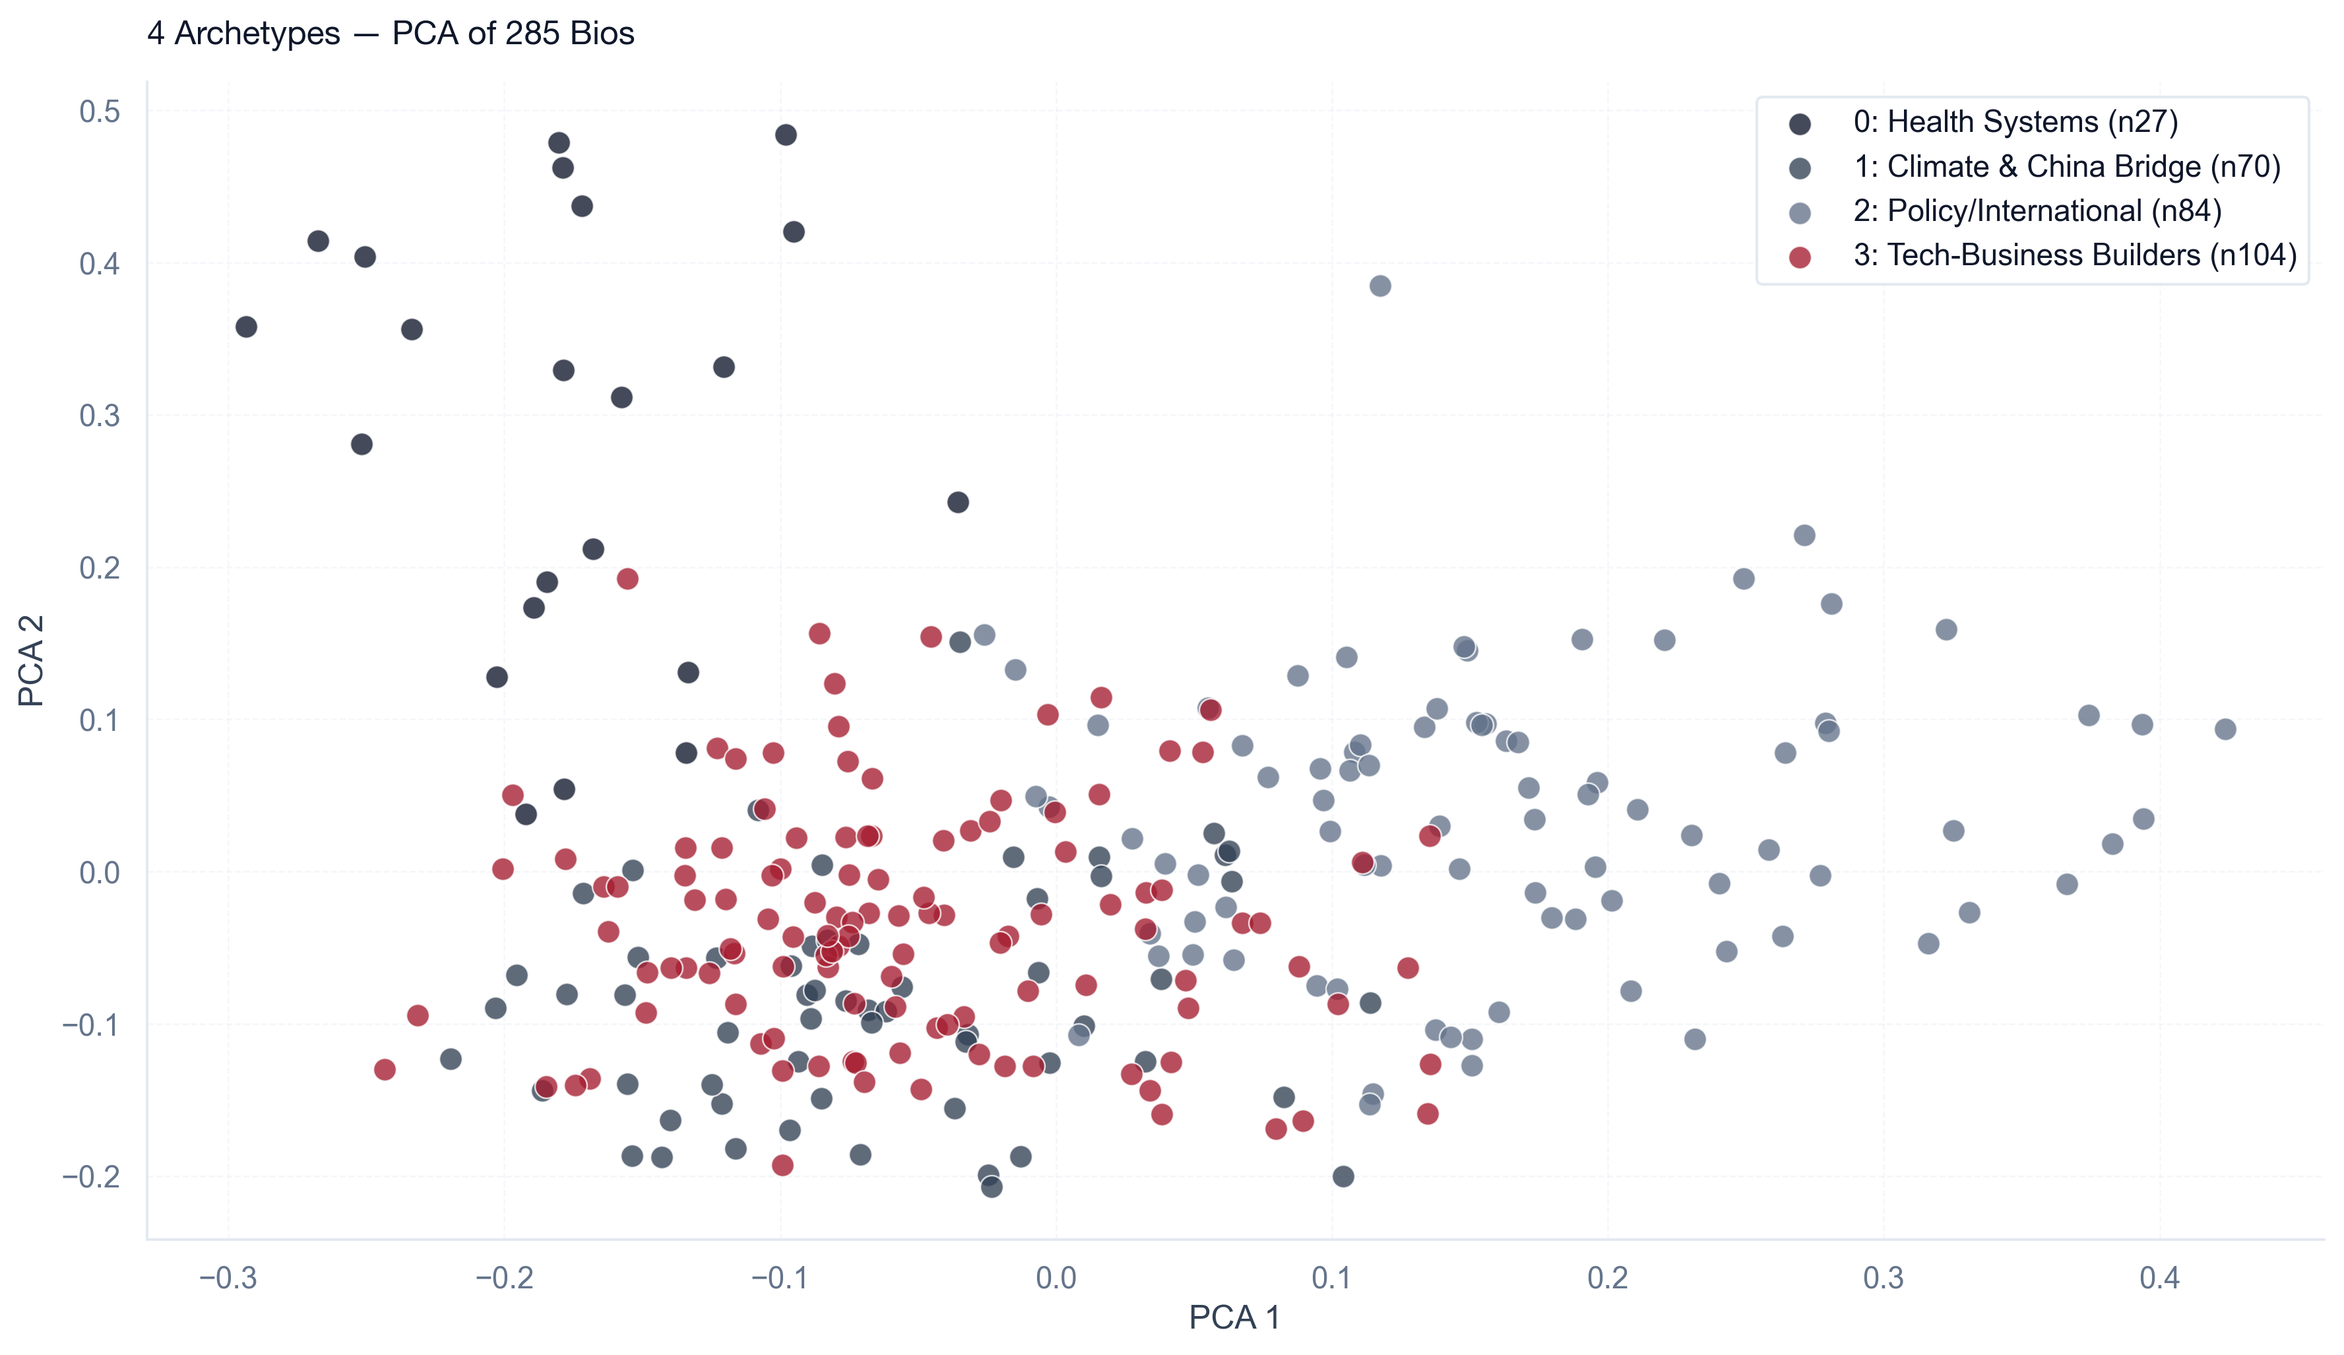
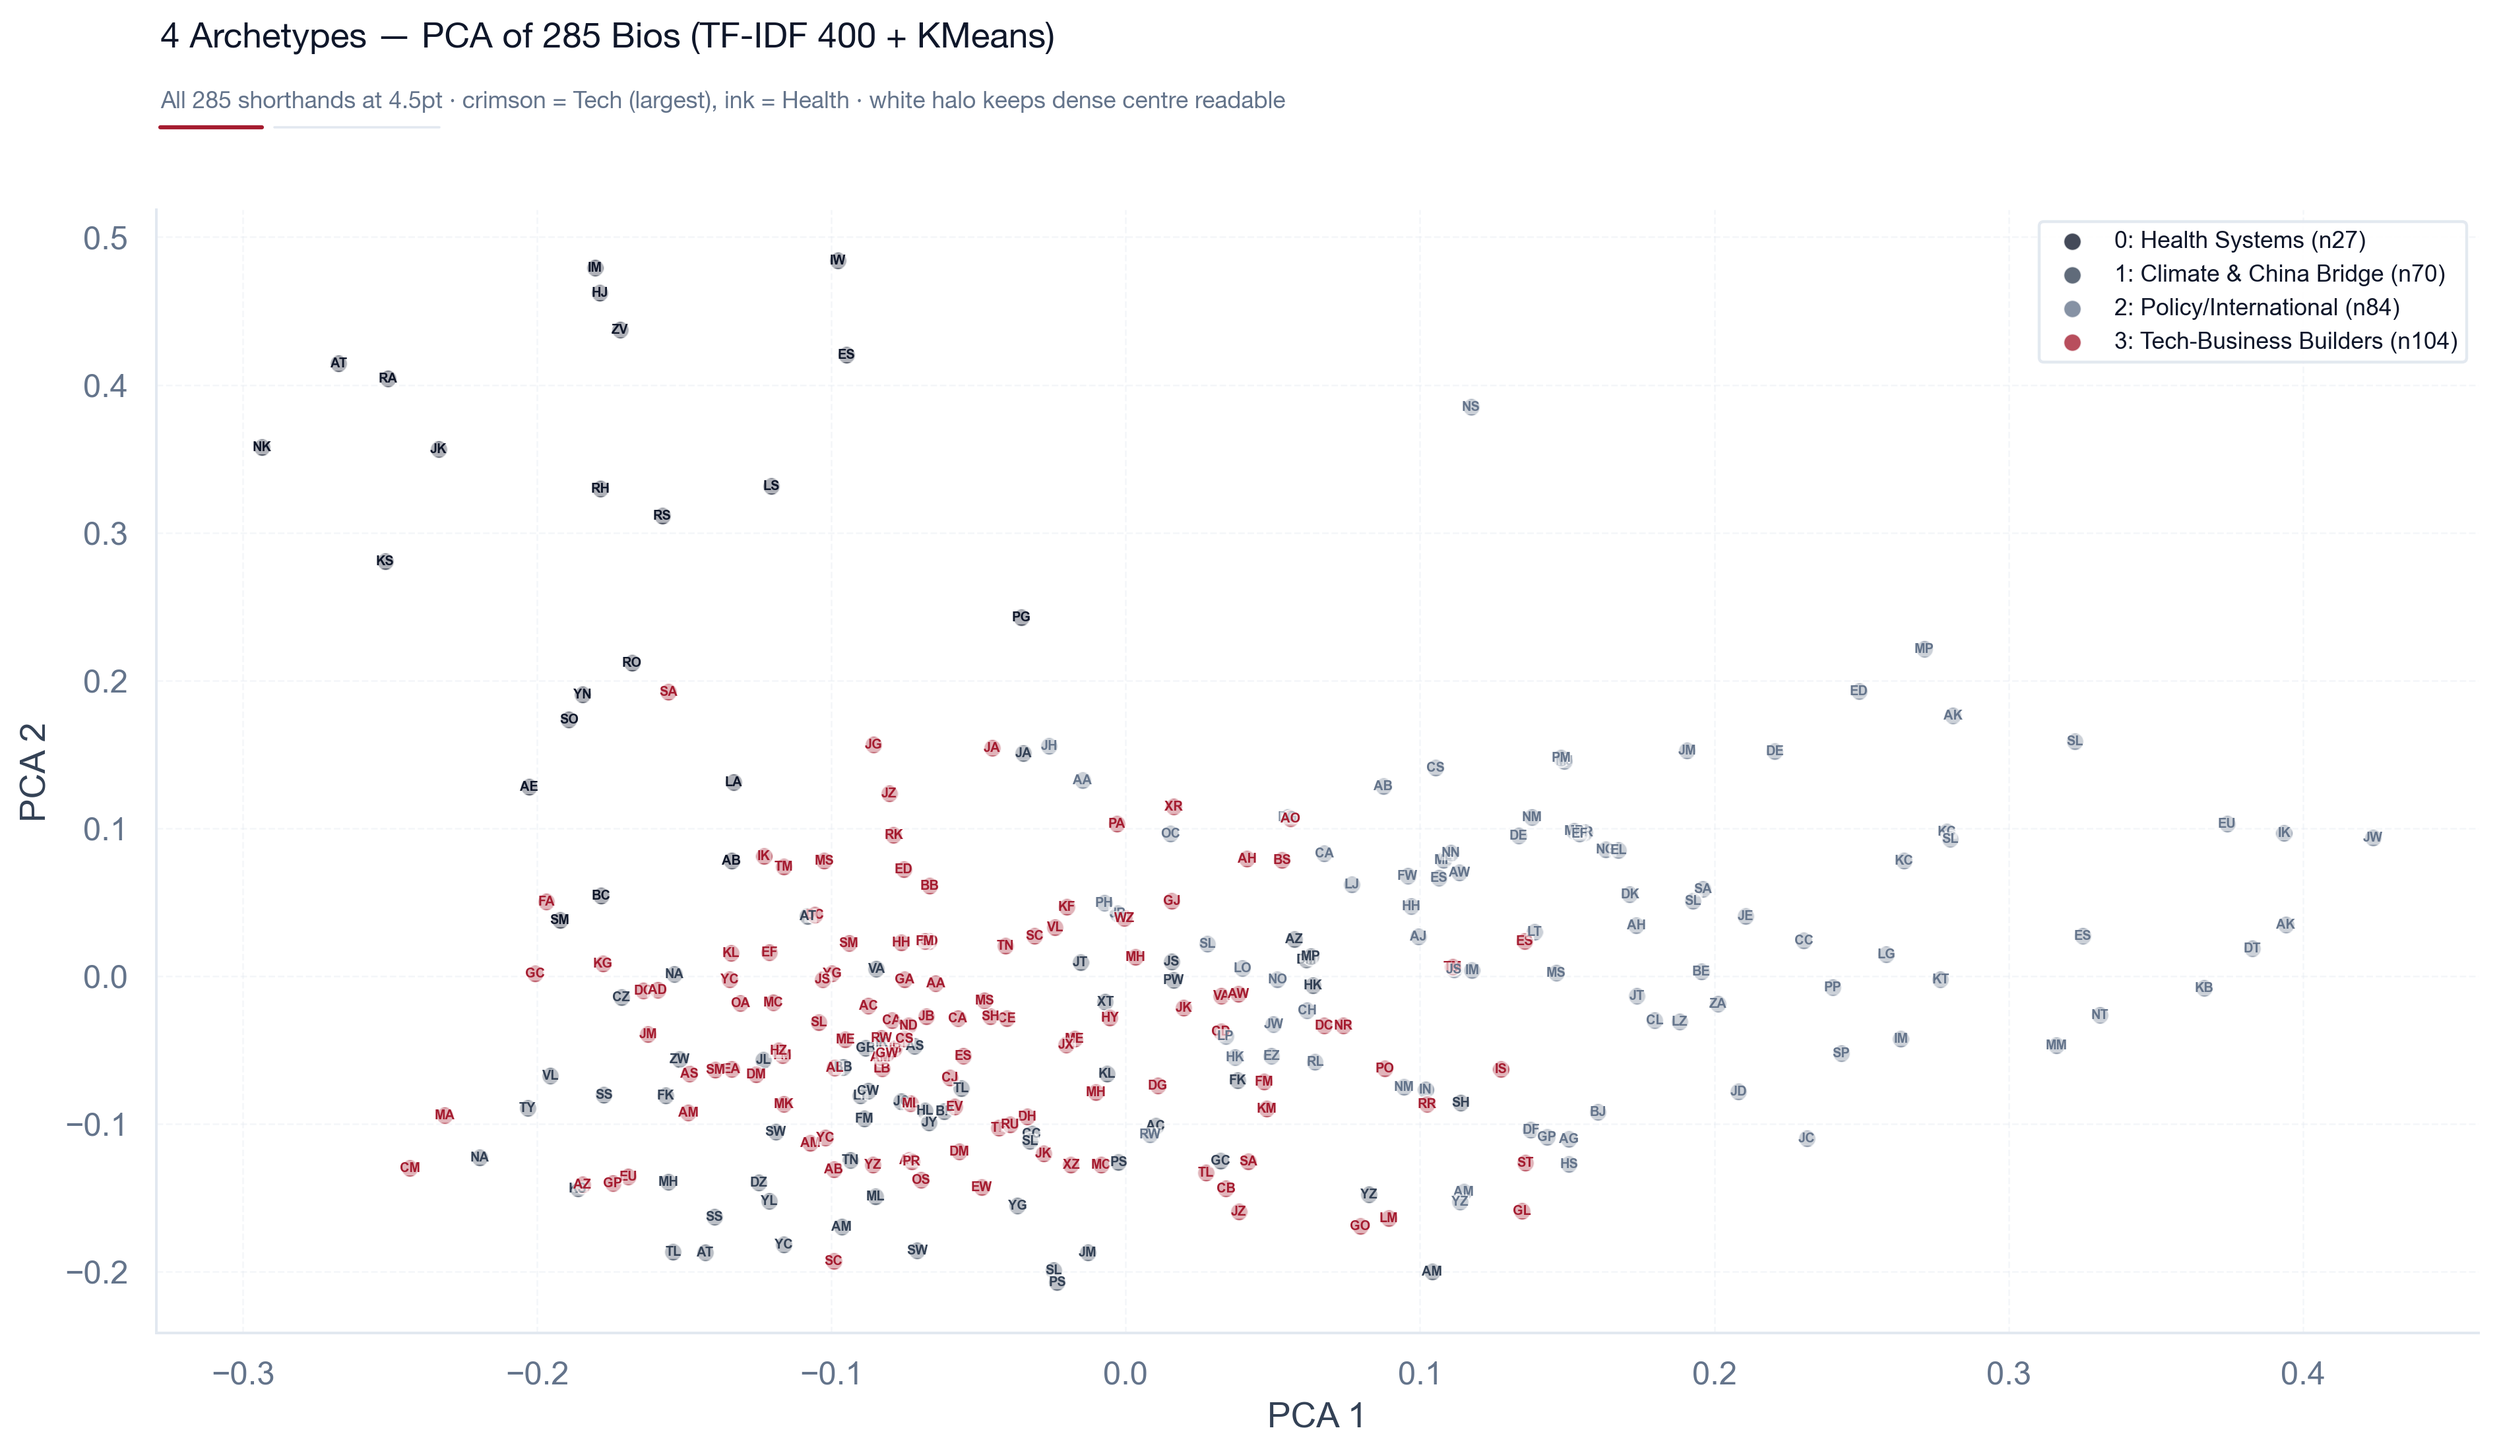
fix: PCA all 285 shorthands at 4.5pt + warmth PCA title spacing + README hybrid appetizer
- bios_clusters_pca.png now shows all 285 shorthands tiny (4.5pt, white halo, ensemble ink/slate/muted/crimson) — no more missing names, no overlap
- custom_pca_warmth_shorthand.png: slate->crimson warmth, labels offset 6pt NE with border, title/subtitle separated (fig.text 0.96/0.92 + red rule) — fixes blues + overlap
- notebook PCA cell patched to same all-names logic (s=36, 4.5pt)
- schwarzman_style.py subtitle y 1.12 pad 32 + rect 0.88 to prevent title clash
- README.md: schwarzman_hybrid_4K.png promoted to Figure 1 academic appetizer right after TOC (was buried in language section) — tagged Red, now opener

diff --git a/schwarzman_style.py b/schwarzman_style.py
@@ -241,9 +241,22 @@ def style_axes(
         )
     if subtitle:
         # Render subtitle as a text box just above axes (like Ref 2 "Tsinghua · Schwarzman")
-        # Use figure-level if axes title already used — here we add an axes text.
+        # Place higher when title exists to avoid overlap (title pad + subtitle offset)
+        y_sub = 1.12 if title else 1.02
+        title_pad = 32 if subtitle else 14
+        if title:
+            # bump title pad so subtitle has breathing room
+            ax.set_title(
+                title,
+                loc="left",
+                pad=title_pad,
+                fontsize=TITLE_SIZE,
+                fontweight="bold",
+                color=title_color,
+                fontfamily=(SERIF if title_serif else SANS)[0],
+            )
         ax.text(
-            0, 1.02, subtitle,
+            0, y_sub, subtitle,
             transform=ax.transAxes,
             ha="left", va="bottom",
             fontsize=SUBTITLE_SIZE - 1,

diff --git a/README.md b/README.md
@@ -27,6 +27,9 @@
 - [Reproduce in 2 minutes](#reproduce-in-2-minutes)
 - [Limitations](#limitations--read-before-citing)
 
+![Schwarzman Hybrid Treemap — the 285 bios in one view](analytics_dashboard/schwarzman_hybrid_4K.png)
+> **Figure 1 — Academic appetizer: how 285 admitted bios describe themselves.** Treemap area = word frequency (active words only — `and 1,412` / `the 1,129` stripped, POS-filtered to nouns/verbs/adjectives). `china 230`, `global 175`, `university 276`, `policy 114`, `founded 73`, `led 71` dominate by area — not `passionate 58`. No color encodes rank; white tiles + `#E2E8F0` strokes keep the map quiet. The bridge (`china`/`global`/`united`/`international`) is 970 mentions. See § The language of admission + `data/bios_words.csv` for counts and `scripts/bios_nlp.py` for the POS method.
+
 ## Dataset at a glance
 
 | File | Rows | Columns | Notes |
